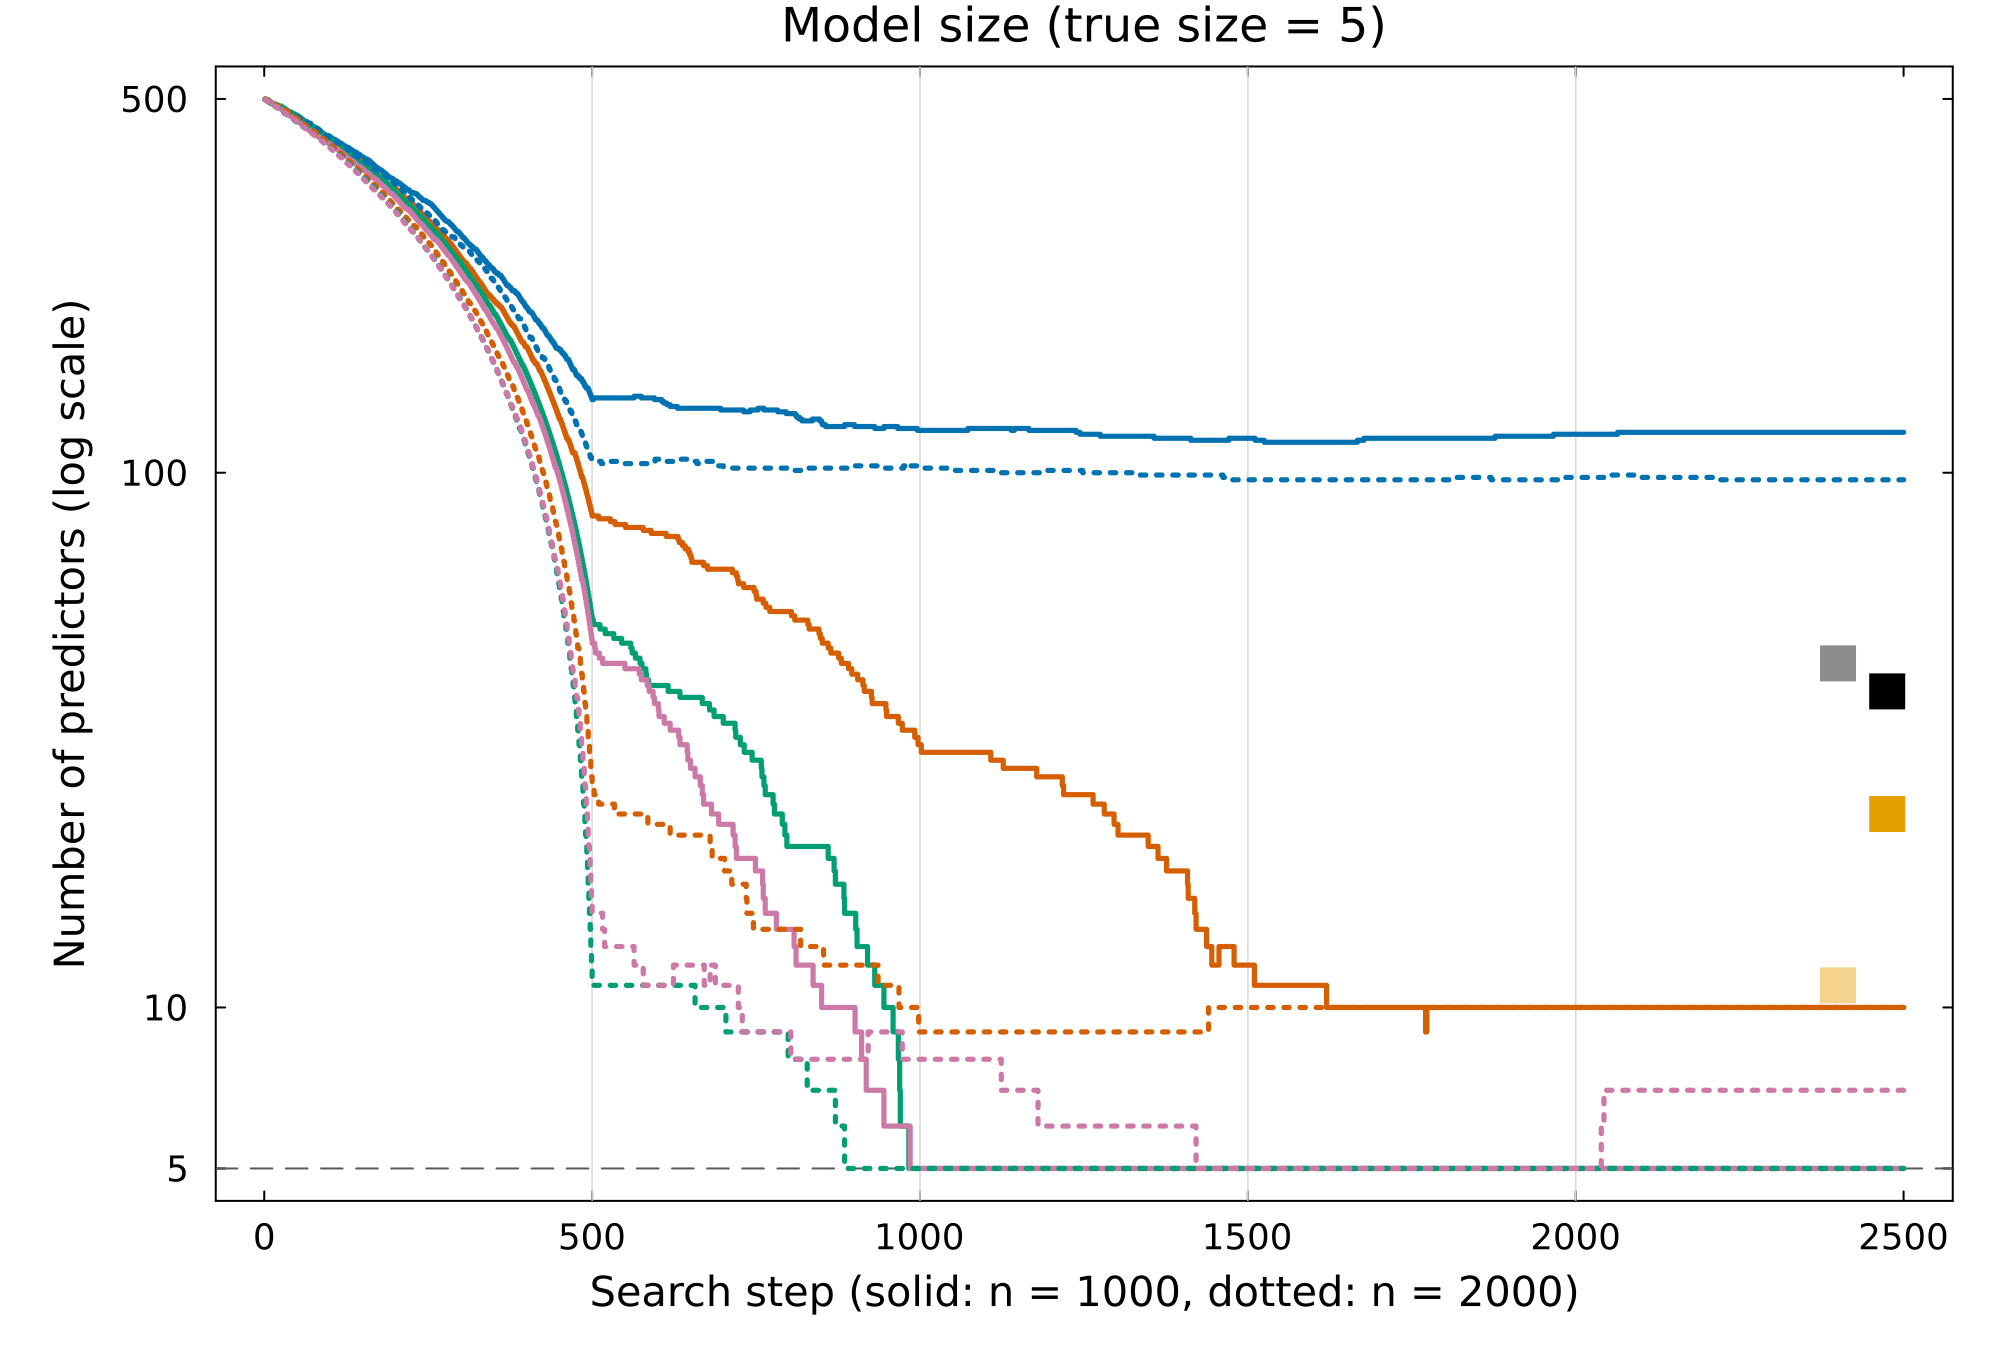
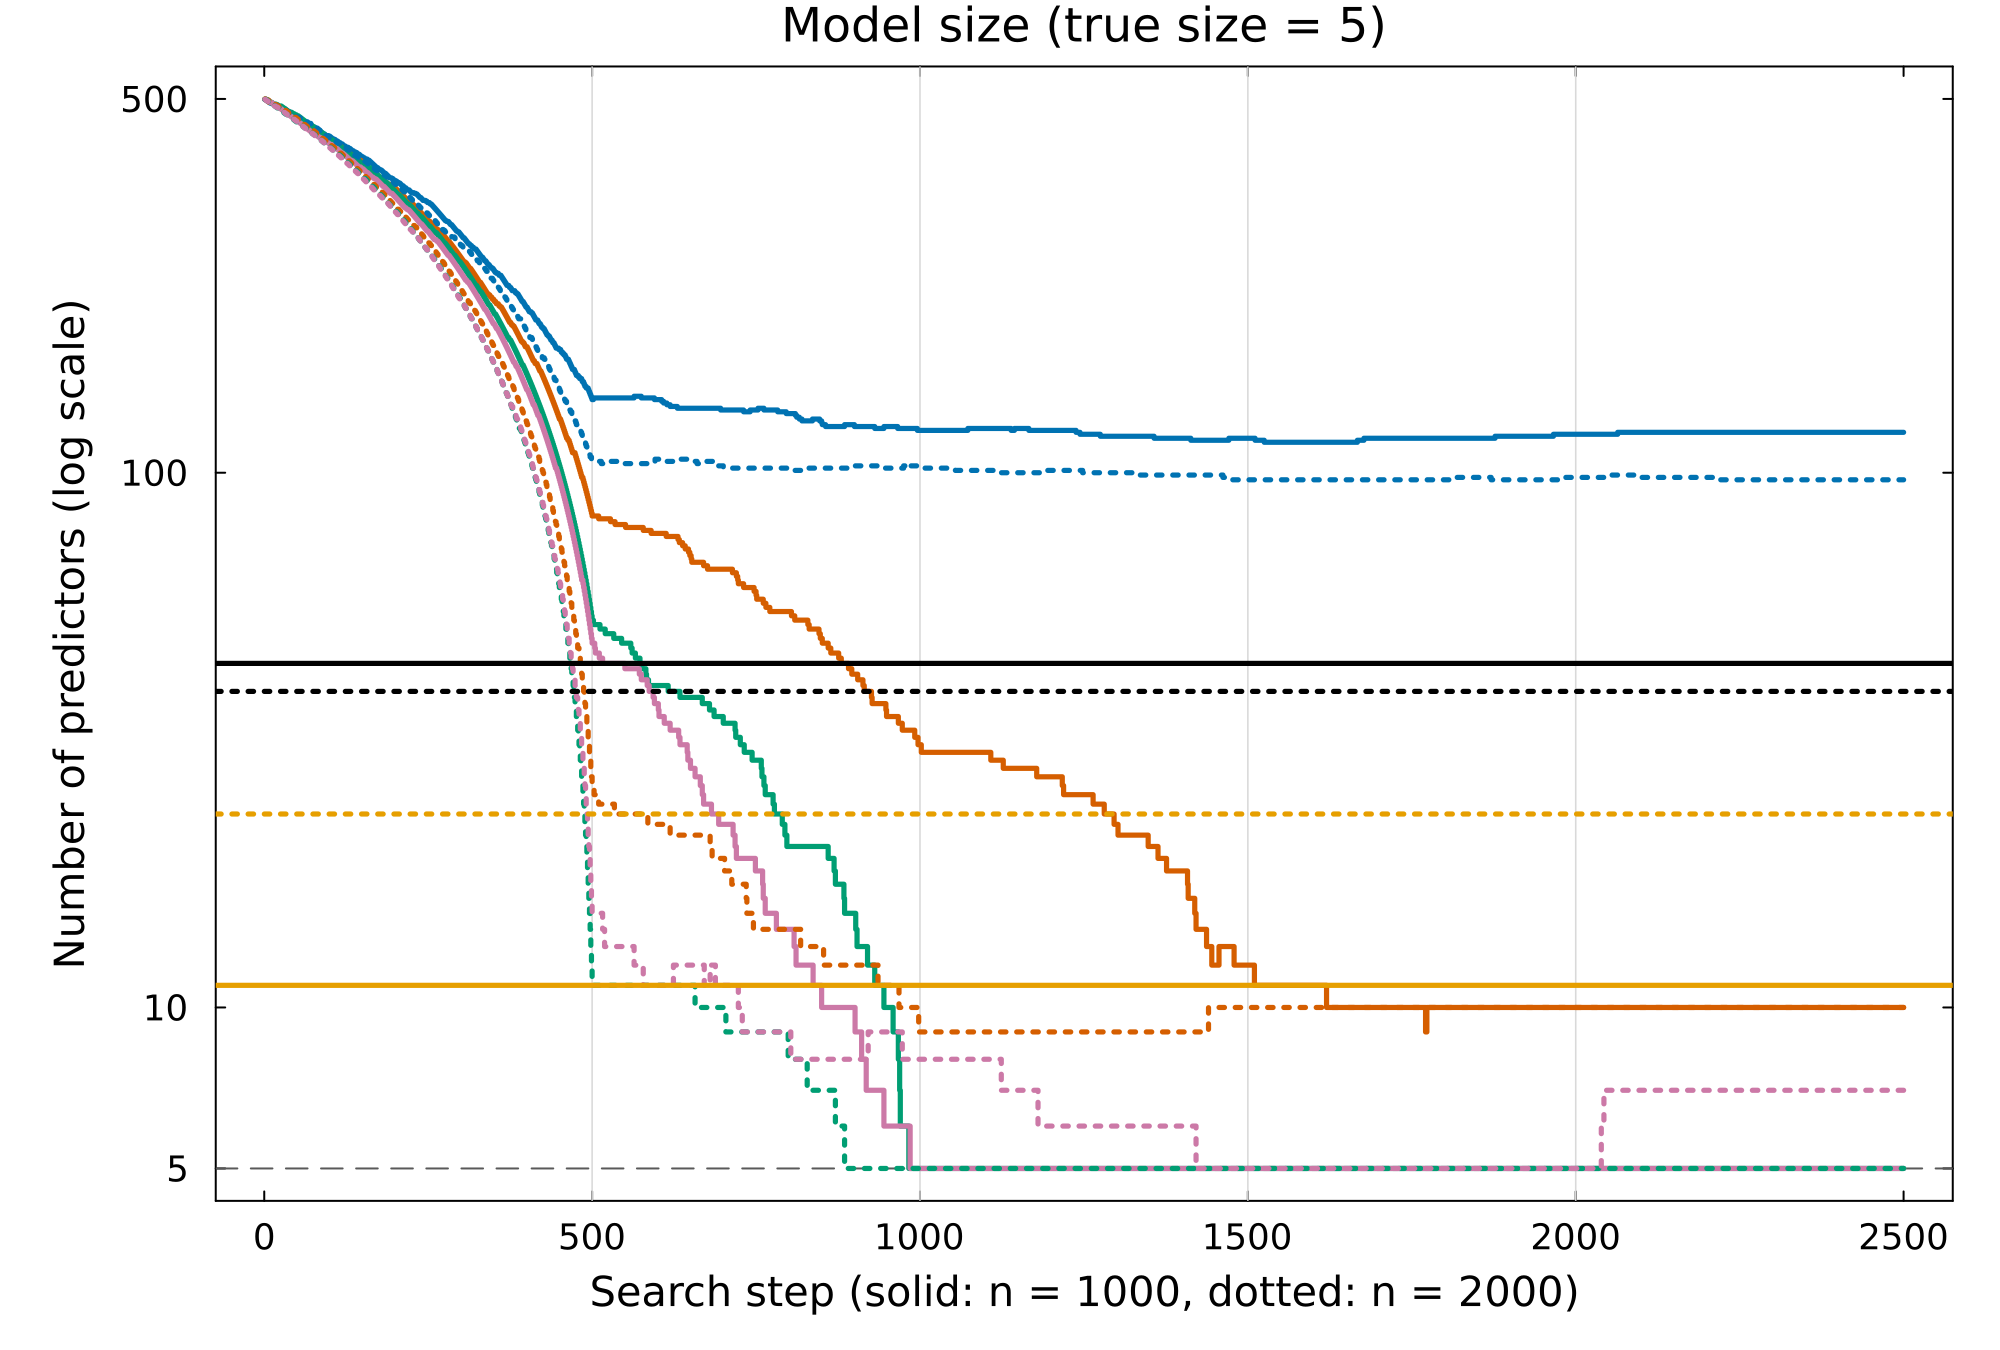
Figures: draw lasso and adaptive lasso model sizes as horizontal lines
Replace the squares at the right edge of the model-size figures with
horizontal lines (solid: n = 1000, dotted: n = 2000), as in the R README.
Figures and README output regenerated with docs/readme_figures.jl; only
run times change in the tables.

Changed region(s): [[0.124, 0.4667, 0.961, 0.5289], [0.124, 0.7156, 0.961, 0.7467], [0.93, 0.5911, 0.961, 0.6222]]

diff --git a/README.md b/README.md
@@ -293,9 +293,8 @@ variables after each search step: solid lines for $n = 1000$ and dotted lines
 for $n = 2000$. Light grey vertical lines mark a new pass over the
 predictors, and the dashed line marks the true model size. Criteria with
 larger penalties take lower values, so compare the shapes of the curves, not
-their heights. The lasso and adaptive lasso have no search path; squares at
-the right edge of the model-size figure mark their model sizes (light: $n = 1000$,
-dark: $n = 2000$). The script
+their heights. The lasso and adaptive lasso have no search path; horizontal
+lines in the model-size figure mark their model sizes. The script
 [`docs/readme_figures.jl`](docs/readme_figures.jl) runs the code in this
 section and redraws the figures.
 -->
@@ -338,18 +337,18 @@ Y = LP_to_Y(X, beta, "Normal"; std = sqrt(sum(abs2, beta) / 0.71))
 fits = compare_criteria(X, Y, 1:p, p; Nsim = 5)
 selection_table(fits, true_cols)
 #>                  size false_pos false_neg seconds
-#> n1000 AIC         119       114         0    0.41
-#> n1000 BIC          10         5         0    0.29
-#> n1000 GIC6          5         0         0    0.26
-#> n1000 Boltzmann     5         0         0    0.31
-#> n1000 Lasso        11         6         0    2.22
-#> n1000 AdaLasso     44        39         0    4.97
-#> n2000 AIC          97        92         0    0.39
-#> n2000 BIC          10         5         0    0.44
-#> n2000 GIC6          5         0         0    0.28
-#> n2000 Boltzmann     7         2         0    0.42
-#> n2000 Lasso        23        18         0    2.98
-#> n2000 AdaLasso     39        34         0    7.99
+#> n1000 AIC         119       114         0    0.47
+#> n1000 BIC          10         5         0    0.32
+#> n1000 GIC6          5         0         0    0.18
+#> n1000 Boltzmann     5         0         0    0.17
+#> n1000 Lasso        11         6         0    2.26
+#> n1000 AdaLasso     44        39         0    5.04
+#> n2000 AIC          97        92         0    0.52
+#> n2000 BIC          10         5         0    0.54
+#> n2000 GIC6          5         0         0    0.43
+#> n2000 Boltzmann     7         2         0    0.28
+#> n2000 Lasso        23        18         0    3.02
+#> n2000 AdaLasso     39        34         0     8.3
 ```
 
 <p align="center"><img src="docs/figures/README-linear-criterion.png" alt="Criterion along the search, linear model with p = 500" width="85%"></p>
@@ -379,18 +378,18 @@ true_union = sort(unique(reduce(vcat, true_by_response)))
 fits = compare_criteria(X, Y_multi, 1:p, p; Nsim = 5, lasso_family = MvNormal())
 selection_table(fits, true_union)
 #>                  size false_pos false_neg seconds
-#> n1000 AIC          93        69         1     0.3
-#> n1000 BIC          20         0         5    0.23
-#> n1000 GIC6         20         0         5    0.21
-#> n1000 Boltzmann    84        63         4    0.38
-#> n1000 Lasso       132       107         0    5.69
-#> n1000 AdaLasso     24         2         3   12.91
-#> n2000 AIC          76        51         0    0.37
-#> n2000 BIC          22         0         3    0.44
-#> n2000 GIC6         20         0         5    0.28
-#> n2000 Boltzmann   133       112         4    0.61
-#> n2000 Lasso       131       106         0    10.5
-#> n2000 AdaLasso     54        30         1   24.76
+#> n1000 AIC          93        69         1    0.48
+#> n1000 BIC          20         0         5    0.65
+#> n1000 GIC6         20         0         5    0.19
+#> n1000 Boltzmann    84        63         4    0.22
+#> n1000 Lasso       132       107         0    5.59
+#> n1000 AdaLasso     24         2         3   12.78
+#> n2000 AIC          76        51         0    0.39
+#> n2000 BIC          22         0         3    0.24
+#> n2000 GIC6         20         0         5    0.32
+#> n2000 Boltzmann   133       112         4     0.4
+#> n2000 Lasso       131       106         0   10.47
+#> n2000 AdaLasso     54        30         1   25.16
 ```
 
 <p align="center"><img src="docs/figures/README-multivariate-criterion.png" alt="Criterion along the search, multivariate normal response" width="85%"></p>
@@ -428,17 +427,17 @@ fits = compare_glm(y_pois, y_pois, Poisson(), "Poisson")
 selection_table(fits, true_cols)
 #>                  size false_pos false_neg seconds
 #> n1000 AIC          49        45         1    0.02
-#> n1000 BIC           7         2         0     0.0
+#> n1000 BIC           7         2         0    0.01
 #> n1000 GIC6          5         0         0     0.0
-#> n1000 Boltzmann    49        46         2    0.02
-#> n1000 Lasso        24        19         0    5.81
-#> n1000 AdaLasso      5         0         0    7.15
-#> n2000 AIC          49        45         1     0.1
-#> n2000 BIC           6         1         0     0.1
-#> n2000 GIC6          5         0         0    0.01
-#> n2000 Boltzmann    49        48         4    0.04
-#> n2000 Lasso        28        23         0     4.8
-#> n2000 AdaLasso      5         0         0   13.75
+#> n1000 Boltzmann    49        46         2    0.09
+#> n1000 Lasso        24        19         0    6.04
+#> n1000 AdaLasso      5         0         0    7.28
+#> n2000 AIC          49        45         1    0.03
+#> n2000 BIC           6         1         0    0.02
+#> n2000 GIC6          5         0         0    0.02
+#> n2000 Boltzmann    49        48         4    0.07
+#> n2000 Lasso        28        23         0    5.03
+#> n2000 AdaLasso      5         0         0   14.36
 
 # Coefficients of the GIC6 model for n = 2000, intercept first
 round.(Beta_estimate(y_pois, X[:, last_model(fits.n2000.GIC6)]; family = "Poisson"), digits = 2)
@@ -464,18 +463,18 @@ y_binom = LP_to_Y(X, beta, "Binomial"; n_trials = 10)
 fits = compare_glm(y_binom, [10 .- y_binom y_binom], Binomial(), "Binomial"; n_trials = 10)
 selection_table(fits, true_cols)
 #>                  size false_pos false_neg seconds
-#> n1000 AIC          49        46         2    0.01
+#> n1000 AIC          49        46         2    0.02
 #> n1000 BIC          10         5         0     0.0
 #> n1000 GIC6          5         0         0     0.0
-#> n1000 Boltzmann     5         0         0     0.0
-#> n1000 Lasso        43        38         0    3.66
-#> n1000 AdaLasso     46        41         0    7.34
-#> n2000 AIC          49        47         3    0.03
-#> n2000 BIC           8         3         0    0.08
+#> n1000 Boltzmann     5         0         0    0.01
+#> n1000 Lasso        43        38         0     4.0
+#> n1000 AdaLasso     46        41         0     7.5
+#> n2000 AIC          49        47         3    0.02
+#> n2000 BIC           8         3         0    0.01
 #> n2000 GIC6          5         0         0    0.01
 #> n2000 Boltzmann     5         0         0    0.01
-#> n2000 Lasso        42        37         0    4.43
-#> n2000 AdaLasso     77        72         0   13.38
+#> n2000 Lasso        42        37         0    4.74
+#> n2000 AdaLasso     77        72         0   14.11
 ```
 
 <p align="center"><img src="docs/figures/README-binomial-criterion.png" alt="Criterion along the search, binomial response" width="85%"></p>
@@ -497,18 +496,18 @@ onehot = Float64[y == c for y in y_mn, c in 1:3]
 fits = compare_glm(y_mn, onehot, Multinomial(), "Multinomial"; n_categories = 3)
 selection_table(fits, true_cols)
 #>                  size false_pos false_neg seconds
-#> n1000 AIC          49        46         2    0.01
-#> n1000 BIC           6         1         0    0.01
-#> n1000 GIC6          5         0         0     0.0
+#> n1000 AIC          49        46         2     0.1
+#> n1000 BIC           6         1         0     0.1
+#> n1000 GIC6          5         0         0    0.04
 #> n1000 Boltzmann     5         0         0    0.01
-#> n1000 Lasso       101        96         0   13.76
-#> n1000 AdaLasso     64        59         0    12.7
-#> n2000 AIC          49        46         2    0.01
-#> n2000 BIC           5         0         0    0.01
-#> n2000 GIC6          5         0         0    0.01
-#> n2000 Boltzmann    14         9         0    0.02
-#> n2000 Lasso        87        82         0    29.3
-#> n2000 AdaLasso     15        10         0    25.5
+#> n1000 Lasso       101        96         0   14.48
+#> n1000 AdaLasso     64        59         0   13.36
+#> n2000 AIC          49        46         2    0.14
+#> n2000 BIC           5         0         0    0.18
+#> n2000 GIC6          5         0         0    0.23
+#> n2000 Boltzmann    14         9         0    0.01
+#> n2000 Lasso        87        82         0    31.2
+#> n2000 AdaLasso     15        10         0   28.02
 ```
 
 <p align="center"><img src="docs/figures/README-multinomial-criterion.png" alt="Criterion along the search, multinomial response" width="85%"></p>
